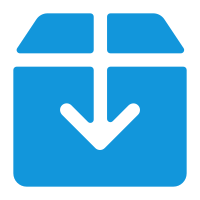
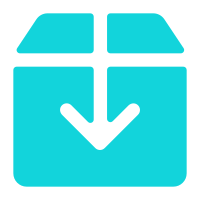
peopleMsg

diff --git a/src/utils/base64.ts b/src/utils/base64.ts
@@ -1,0 +1,4 @@
+export const send_people =
[1 lines of base64/hex data omitted]
+export const collect_people =
[1 lines of base64/hex data omitted]

diff --git a/src/pages/SendDetail/SendDetail.tsx b/src/pages/SendDetail/SendDetail.tsx
@@ -1,10 +1,29 @@
 /* eslint-disable jsx-quotes */
 import "./SendDetail.scss";
+import Header from "../../components/Header/Header";
+import PeopleMsg from "../../components/PeopleMsg/PeopleMsg";
+import { send_people, collect_people } from "../../utils/base64";
 
 const SendDetail = () => {
   return (
     <view className="sendDetailContainer">
-      <view></view>
+      <Header title="寄快递"></Header>
+      <view className="sendMsg">
+        <PeopleMsg
+          title="寄件人信息"
+          url={send_people}
+          address="点击填写寄件地址"
+        ></PeopleMsg>
+        <view className="divide"></view>
+        <PeopleMsg
+          title="收件人信息"
+          url={collect_people}
+          address="点击填写收件地址"
+        ></PeopleMsg>
+      </view>
+      <view className="goods">
+        <view className="title">物品信息</view>
+      </view>
     </view>
   );
 };

diff --git a/src/components/PeopleMsg/PeopleMsg.tsx b/src/components/PeopleMsg/PeopleMsg.tsx
@@ -1,0 +1,30 @@
+/* eslint-disable jsx-quotes */
+
+import "./PeopleMsg.scss";
+
+const PeopleMsg = ({ url, title, address }) => {
+  return (
+    <view className="peopleMsgContainer">
+      <view
+        className="icon"
+        style={{
+          width: 40,
+          height: 40,
+          background: `url('${url}')`,
+          margin: "0 20px",
+          backgroundPosition: "center",
+          backgroundRepeat: "no-repeat",
+          backgroundSize: "100%,100%",
+        }}
+      ></view>
+      <view className="msgDetail">
+        <view className="title">{title}</view>
+        <view className="address">
+          <view className="text">{address}</view>
+          <view className="right"></view>
+        </view>
+      </view>
+    </view>
+  );
+};
+export default PeopleMsg;

diff --git a/src/components/PeopleMsg/PeopleMsg.scss b/src/components/PeopleMsg/PeopleMsg.scss
@@ -1,0 +1,34 @@
+.peopleMsgContainer {
+  display: flex;
+  align-items: center;
+  border-bottom: 1px solid #d8d6d6;
+  .msgDetail {
+    display: flex;
+    flex-direction: column;
+    .title {
+      height: 40px;
+      line-height: 40px;
+      font-size: 40px;
+      padding: 20px 0;
+    }
+    .address {
+      display: flex;
+      align-items: center;
+      color: #8a8a8a;
+      padding: 15px 0;
+      .text {
+        height: 40px;
+        line-height: 40px;
+      }
+      .right {
+        width: 40px;
+        height: 40px;
+        background: url("../../assets/right.png");
+        background-repeat: no-repeat;
+        background-size: 100% 100%;
+        background-position: center;
+        margin-left: 200rpx;
+      }
+    }
+  }
+}

diff --git a/src/components/RecruitCard/RecruitCard.tsx b/src/components/RecruitCard/RecruitCard.tsx
@@ -10,7 +10,7 @@ const RecruitCard = ({ title, address, salary, name, from }) => {
         <view className="card-item salary">{salary}/单</view>
       </view>
       <view className="card-line center">
-        <view className="card-item from">{from}</view>
+        <view className="card-item from">{from} | 本科 | 无需经验</view>
         <view className="card-item address">{address}</view>
       </view>
       <view className="card-line bottom">

diff --git a/src/components/RecruitCard/RecruitCard.scss b/src/components/RecruitCard/RecruitCard.scss
@@ -6,7 +6,7 @@
   justify-content: space-between;
   box-shadow: 0px 0px 20px 0px rgba(101, 247, 247, 0.35);
   margin: 20px 0px 20px 0px;
-  border-radius: 5px;
+  border-radius: 15px;
   .card-line {
     display: flex;
     justify-content: space-between;
@@ -33,7 +33,7 @@
       color: #8a8a8a;
     }
     .link {
-      border-radius: 10px;
+      border-radius: 20px;
       padding: 10px;
       text-align: center;
       color: #12d4db;

diff --git a/src/app.config.ts b/src/app.config.ts
@@ -1,5 +1,10 @@
 export default {
-  pages: ["pages/Recruit/Recruit", "pages/index/index", "pages/Send/Send"],
+  pages: [
+    "pages/SendDetail/SendDetail",
+    "pages/Recruit/Recruit",
+    "pages/index/index",
+    "pages/Send/Send",
+  ],
   window: {
     backgroundTextStyle: "light",
     navigationBarBackgroundColor: "#fff",

diff --git a/src/app.ts b/src/app.ts
@@ -1,5 +1,6 @@
 /* eslint-disable import/first */
 import { Component } from "react";
+import { RecoilRoot } from "recoil";
 import "./app.scss";
 // import "taro-ui/dist/style/index.scss";
 

diff --git a/src/pages/SendDetail/SendDetail.scss b/src/pages/SendDetail/SendDetail.scss
@@ -1,0 +1,8 @@
+.sendDetailContainer {
+  .sendMsg {
+    display: flex;
+    flex-direction: column;
+    height: 380px;
+    justify-content: space-around;
+  }
+}
